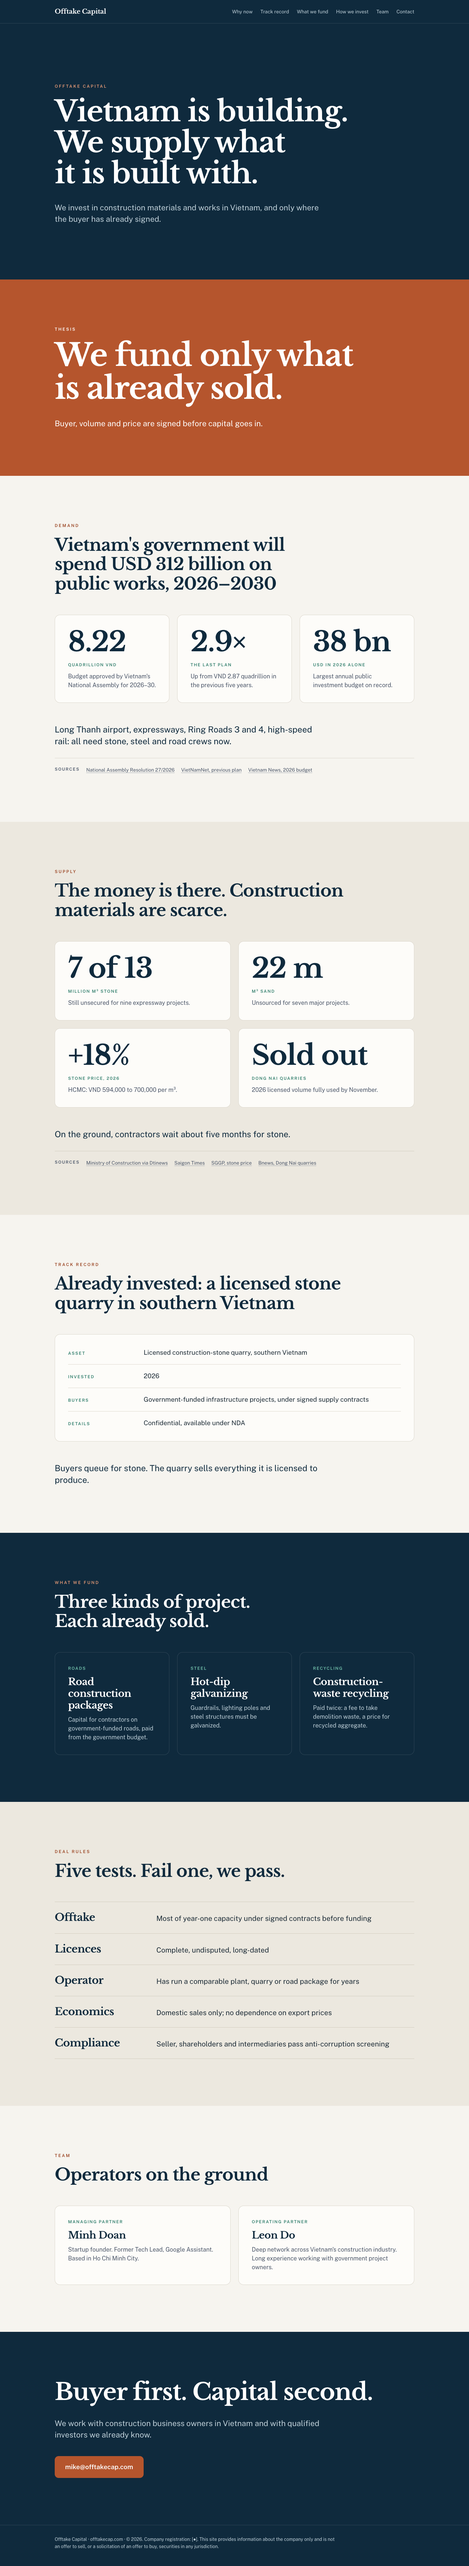
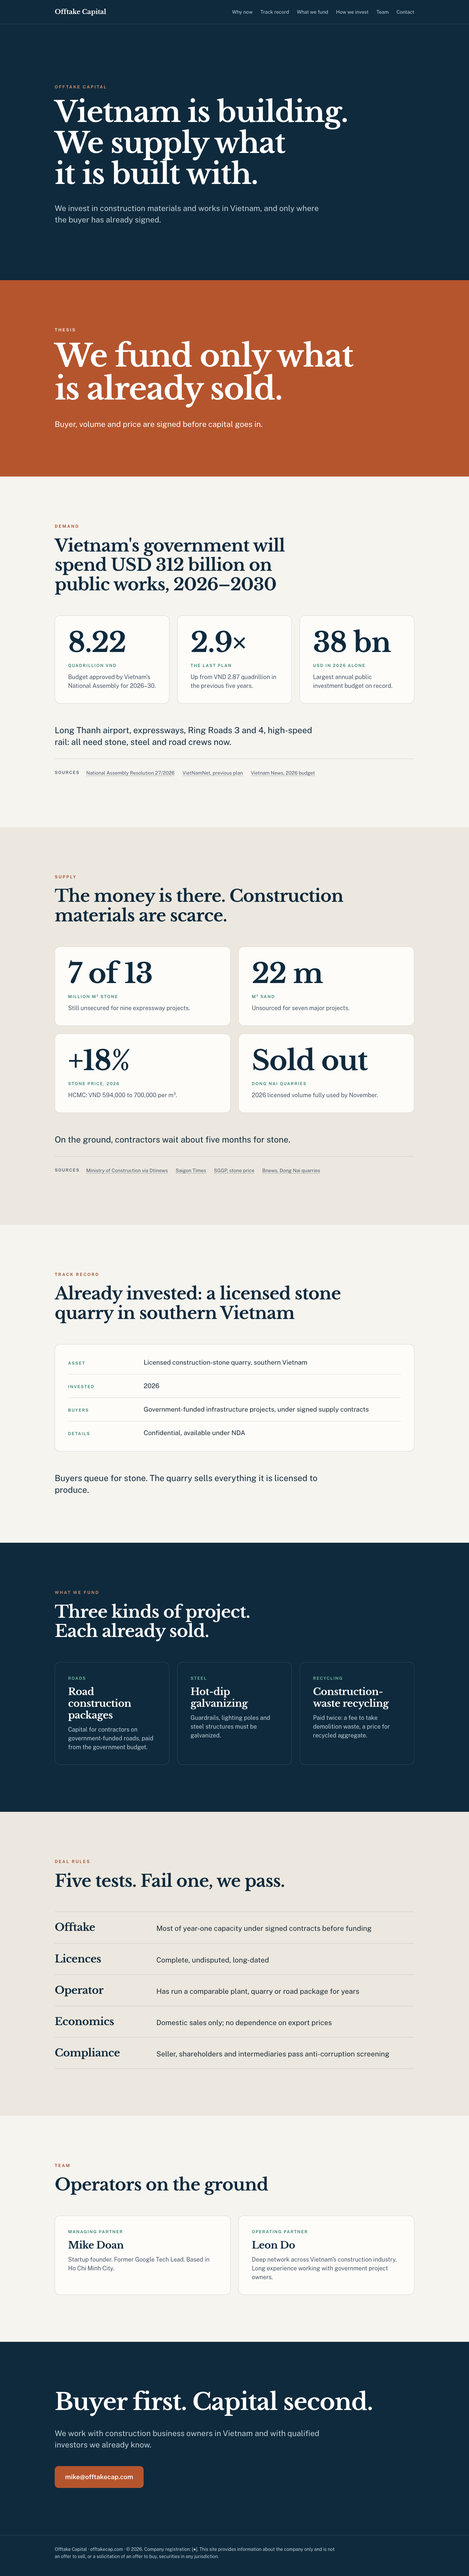
Improve the phone layout and update the team card
- Collapse the nav behind a Menu button below 900px and keep the header
  sticky, so the headline starts higher on the first screen
- Make nav, logo and source links at least 44px tall for touch
- Tighten hero spacing and make the mail button full width on phones
- Team card: Mike Doan, former Google Tech Lead
- Regenerate screenshots; note app.js in the README

diff --git a/site/styles.css b/site/styles.css
@@ -80,6 +80,9 @@ main:focus { outline: none; }
 /* Header */
 .site-header {
   --focus: #fff;
+  position: sticky;
+  top: 0;
+  z-index: 10;
   background: var(--navy);
   color: #fff;
   border-bottom: 1px solid var(--rule-on-navy);
@@ -89,9 +92,9 @@ main:focus { outline: none; }
   flex-wrap: wrap;
   align-items: center;
   justify-content: space-between;
-  gap: 4px 32px;
-  padding-top: 14px;
-  padding-bottom: 14px;
+  gap: 0 32px;
+  padding-top: 8px;
+  padding-bottom: 8px;
 }
 .brand {
   font-family: var(--serif);
@@ -99,7 +102,7 @@ main:focus { outline: none; }
   font-size: 20px;
   letter-spacing: -.01em;
   text-decoration: none;
-  padding: 6px 0;
+  padding: 9px 0;
 }
 .nav {
   display: flex;
@@ -109,14 +112,40 @@ main:focus { outline: none; }
 }
 .nav a {
   display: inline-block;
-  padding: 8px 0;
+  padding: 12px 0;
   color: var(--soft-on-navy);
   text-decoration: none;
 }
 .nav a:hover { color: #fff; text-decoration: underline; text-underline-offset: 5px; }
 
+.menu-toggle {
+  display: none;
+  min-height: 44px;
+  padding: 0 18px;
+  background: transparent;
+  border: 1px solid var(--rule-on-navy);
+  border-radius: 10px;
+  color: #fff;
+  font: 600 15px/1 var(--sans);
+  cursor: pointer;
+}
+.menu-toggle[aria-expanded="true"] { background: rgba(255, 255, 255, .1); }
+
+/* Phones: links sit behind the Menu button (only when the script has loaded) */
+@media (max-width: 899px) {
+  .js .menu-toggle { display: inline-block; }
+  .js #site-nav { display: none; flex-basis: 100%; }
+  .js #site-nav.open { display: block; max-height: calc(100vh - 66px); max-height: calc(100dvh - 66px); overflow-y: auto; }
+  .js .nav { display: block; margin-top: 8px; font-size: 17px; }
+  .js .nav a {
+    display: block;
+    padding: 12px 0;
+    border-top: 1px solid var(--rule-on-navy);
+    color: #fff;
+  }
+}
 @media (min-width: 900px) {
-  .site-header { position: sticky; top: 0; z-index: 10; }
+  .header-row { padding-top: 12px; padding-bottom: 12px; }
 }
 
 /* Bands */
@@ -172,7 +201,7 @@ h2 {
 }
 .navy .lede { color: var(--soft-on-navy); }
 
-.hero { padding: clamp(88px, 13vw, 184px) 0 clamp(88px, 12vw, 168px); }
+.hero { padding: clamp(56px, 13vw, 184px) 0 clamp(72px, 12vw, 168px); }
 
 /* Cards */
 .cards {
@@ -253,12 +282,12 @@ h2 {
   font-weight: 600;
   letter-spacing: 2px;
   text-transform: uppercase;
-  line-height: 2.2;
+  line-height: 44px;
 }
-.sources ul { display: flex; flex-wrap: wrap; gap: 0 20px; }
+.sources ul { display: flex; flex-wrap: wrap; gap: 0 24px; }
 .sources a {
   display: inline-block;
-  padding: 4px 0;
+  padding: 11px 0;
   text-decoration: underline;
   text-underline-offset: 3px;
   text-decoration-color: #9AA1AB;
@@ -318,6 +347,9 @@ h2 {
   overflow-wrap: anywhere;
 }
 .button:hover { background: #9A4422; }
+@media (max-width: 479px) {
+  .button { display: block; padding: 18px 16px; text-align: center; }
+}
 
 /* Footer */
 .site-footer {

diff --git a/site/index.html b/site/index.html
@@ -35,7 +35,8 @@
   <header class="site-header">
     <div class="wrap header-row">
       <a class="brand" href="#top">Offtake Capital</a>
-      <nav aria-label="Primary">
+      <button class="menu-toggle" type="button" aria-expanded="false" aria-controls="site-nav">Menu</button>
+      <nav id="site-nav" aria-label="Primary">
         <ul class="nav">
           <li><a href="#why-now">Why now</a></li>
           <li><a href="#track-record">Track record</a></li>
@@ -47,6 +48,7 @@
       </nav>
     </div>
   </header>
+  <script src="app.js"></script>
 
   <main id="main" tabindex="-1">
 
@@ -197,8 +199,8 @@
         <ul class="cards cols-2">
           <li class="card">
             <p class="label">Managing Partner</p>
-            <h3>Minh Doan</h3>
-            <p class="note">Startup founder. Former Tech Lead, Google Assistant. Based in Ho Chi Minh City.</p>
+            <h3>Mike Doan</h3>
+            <p class="note">Startup founder. Former Google Tech Lead. Based in Ho Chi Minh City.</p>
           </li>
           <li class="card">
             <p class="label">Operating Partner</p>

diff --git a/site/app.js b/site/app.js
@@ -1,0 +1,24 @@
+/* Offtake Capital: phone menu. Without this script the nav links simply stay visible. */
+(function () {
+  var button = document.querySelector('.menu-toggle');
+  var nav = document.getElementById('site-nav');
+  if (button && nav) {
+    var setOpen = function (open) {
+      button.setAttribute('aria-expanded', String(open));
+      nav.classList.toggle('open', open);
+    };
+    document.documentElement.classList.add('js');
+    button.addEventListener('click', function () {
+      setOpen(button.getAttribute('aria-expanded') !== 'true');
+    });
+    nav.addEventListener('click', function (event) {
+      if (event.target.closest('a')) { setOpen(false); }
+    });
+    document.addEventListener('keydown', function (event) {
+      if (event.key === 'Escape' && button.getAttribute('aria-expanded') === 'true') {
+        setOpen(false);
+        button.focus();
+      }
+    });
+  }
+})();

diff --git a/README.md b/README.md
@@ -1,11 +1,12 @@
 # Offtake Capital — website
 
-One-page static site for Offtake Capital. Domain: offtakecap.com. English only. No framework, no build step, no JavaScript.
+One-page static site for Offtake Capital. Domain: offtakecap.com. English only. No framework, no build step.
 
 ```
 site/
   index.html    page markup and all copy
   styles.css    all styling; brand colours are CSS variables at the top
+  app.js        phone menu button (below 900px wide); the page works without it
   favicon.svg   text-free mark in navy and clay
   og.png        1200×630 social preview image
   CNAME         custom domain for GitHub Pages (offtakecap.com)
@@ -41,4 +42,4 @@ Small text needs a contrast ratio of at least 4.5:1. The brand clay (`#B5552D`) 
 
 ## Verifying after edits
 
-Run Lighthouse (`npx lighthouse <url>`). Last measured locally: accessibility 100, best practices 100, SEO 100, performance 91 mobile / 98 desktop. Check the page at 375px and 1440px wide for horizontal scroll.
+Run Lighthouse (`npx lighthouse <url>`). Last measured locally: accessibility 100, best practices 100, SEO 100, performance 100 mobile. Check the page at 375px and 1440px wide for horizontal scroll.
